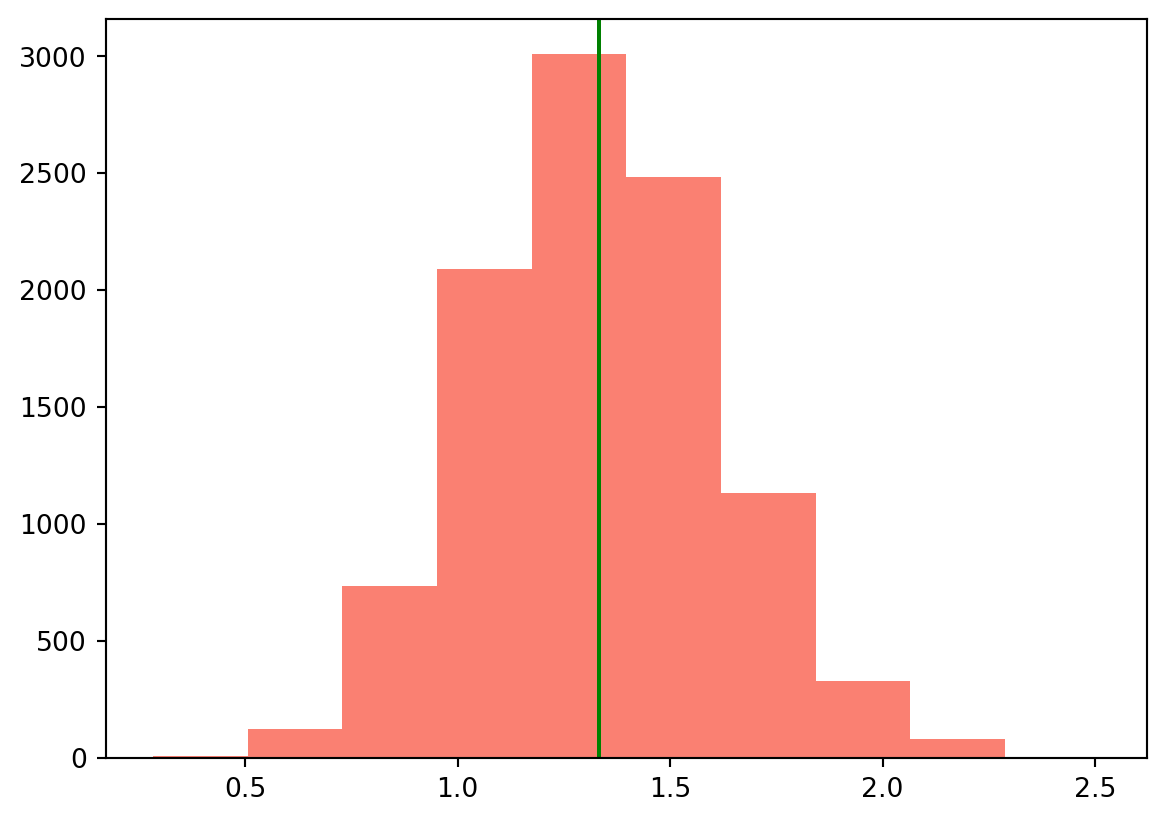
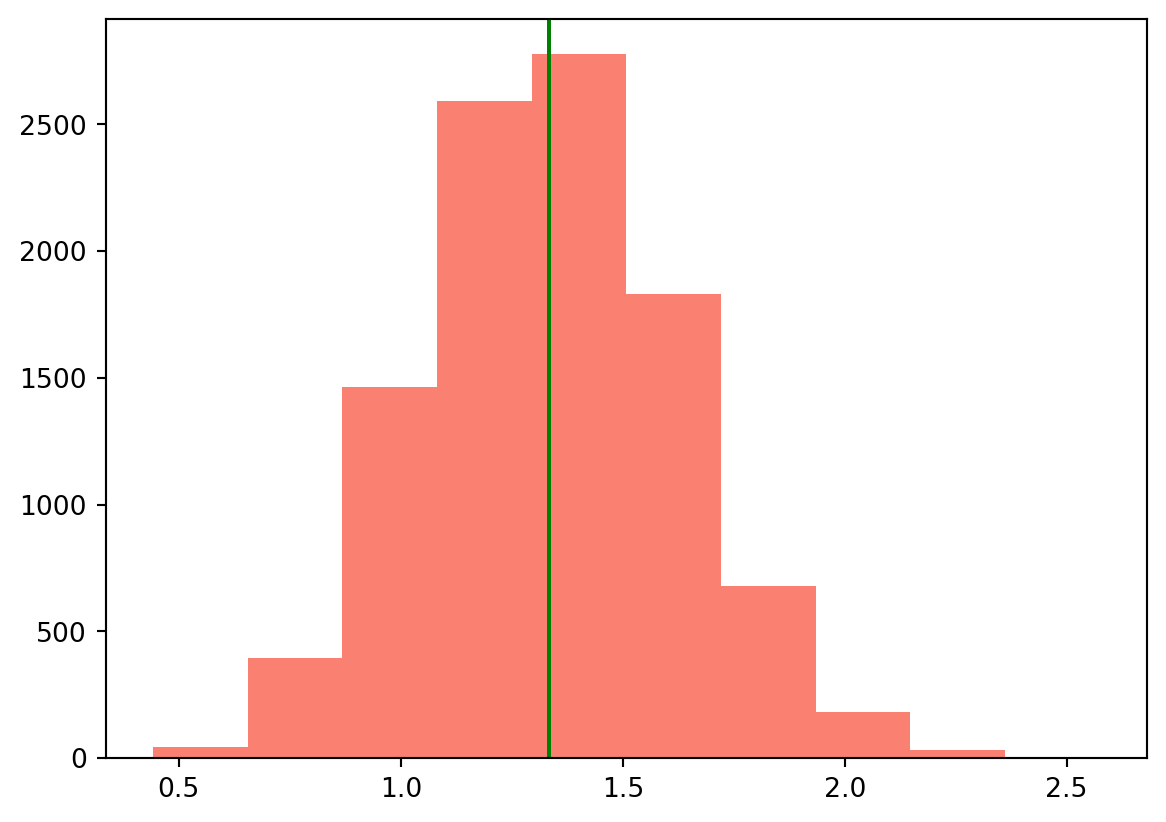
.,

diff --git a/docs/hw4.html b/docs/hw4.html
@@ -177,7 +177,7 @@ pre > code.sourceCode > span > a:first-child::before { text-decoration: underlin
 <p>표본 분산 계산 시 왜 n-1로 나누는지 알아보도록 하겠습니다.</p>
 <p>균일분포 (3, 7)에서 20개의 표본을 뽑아서 분산을 2가지 방법으로 추정해보세요.</p>
 <p>n-1로 나눈 것을 s_2, n으로 나눈 것을 k_2로 정의하고, s_2의 분포와 k_2의 분포를 그려주세요! (10000개 사용) 각 분포 그래프에 모분산의 위치에 녹색 막대를 그려주세요. 결과를 살펴보고, 왜 n-1로 나눈 것을 분산을 추정하는 지표로 사용하는 것이 타당한지 써주세요!</p>
-<div id="7dccb822" class="cell" data-execution_count="1">
+<div id="04a15282" class="cell" data-execution_count="1">
 <div class="sourceCode cell-code" id="cb1"><pre class="sourceCode python code-with-copy"><code class="sourceCode python"><span id="cb1-1"><a href="#cb1-1" aria-hidden="true" tabindex="-1"></a><span class="im">import</span> numpy <span class="im">as</span> np</span>
 <span id="cb1-2"><a href="#cb1-2" aria-hidden="true" tabindex="-1"></a><span class="im">from</span> scipy.stats <span class="im">import</span> uniform</span>
 <span id="cb1-3"><a href="#cb1-3" aria-hidden="true" tabindex="-1"></a><span class="im">import</span> seaborn <span class="im">as</span> sns</span>
@@ -213,7 +213,7 @@ pre > code.sourceCode > span > a:first-child::before { text-decoration: underlin
 <pre><code>&lt;Figure size 672x480 with 0 Axes&gt;</code></pre>
 </div>
 </div>
-<div id="20eed0df" class="cell" data-execution_count="2">
+<div id="2f350654" class="cell" data-execution_count="2">
 <div class="sourceCode cell-code" id="cb3"><pre class="sourceCode python code-with-copy"><code class="sourceCode python"><span id="cb3-1"><a href="#cb3-1" aria-hidden="true" tabindex="-1"></a>mo_var <span class="op">=</span> uniform.var(loc<span class="op">=</span><span class="dv">3</span>,scale<span class="op">=</span><span class="dv">4</span>)</span>
 <span id="cb3-2"><a href="#cb3-2" aria-hidden="true" tabindex="-1"></a>plt.hist(k_2_list, color <span class="op">=</span> <span class="st">"salmon"</span>)</span>
 <span id="cb3-3"><a href="#cb3-3" aria-hidden="true" tabindex="-1"></a>plt.axvline(x_var, color<span class="op">=</span><span class="st">"red"</span>)</span>
@@ -222,7 +222,7 @@ pre > code.sourceCode > span > a:first-child::before { text-decoration: underlin
 <div class="cell-output cell-output-display">
 <div>
 <figure class="figure">
-<p><img src="hw4_files/figure-html/cell-3-output-1.png" width="583" height="411" class="figure-img"></p>
+<p><img src="hw4_files/figure-html/cell-3-output-1.png" width="587" height="411" class="figure-img"></p>
 </figure>
 </div>
 </div>
@@ -230,22 +230,22 @@ pre > code.sourceCode > span > a:first-child::before { text-decoration: underlin
 <pre><code>&lt;Figure size 672x480 with 0 Axes&gt;</code></pre>
 </div>
 </div>
-<div id="47f2b3f3" class="cell" data-execution_count="3">
+<div id="9b01ce0c" class="cell" data-execution_count="3">
 <div class="sourceCode cell-code" id="cb5"><pre class="sourceCode python code-with-copy"><code class="sourceCode python"><span id="cb5-1"><a href="#cb5-1" aria-hidden="true" tabindex="-1"></a>np.mean(s_2_list) </span></code><button title="Copy to Clipboard" class="code-copy-button"><i class="bi"></i></button></pre></div>
 <div class="cell-output cell-output-display" data-execution_count="3">
-<pre><code>np.float64(1.332848974562812)</code></pre>
+<pre><code>np.float64(1.3369070381415145)</code></pre>
 </div>
 </div>
-<div id="a592a7b5" class="cell" data-execution_count="4">
+<div id="dae502e3" class="cell" data-execution_count="4">
 <div class="sourceCode cell-code" id="cb7"><pre class="sourceCode python code-with-copy"><code class="sourceCode python"><span id="cb7-1"><a href="#cb7-1" aria-hidden="true" tabindex="-1"></a>np.mean(k_2_list)</span></code><button title="Copy to Clipboard" class="code-copy-button"><i class="bi"></i></button></pre></div>
 <div class="cell-output cell-output-display" data-execution_count="4">
-<pre><code>np.float64(1.2662065258346715)</code></pre>
+<pre><code>np.float64(1.2700616862344387)</code></pre>
 </div>
 </div>
 <ol start="3" type="1">
 <li>그래프 상으론 차이를 잘 모르겠지만 두 결과 값과</li>
 </ol>
-<div id="38cabe6d" class="cell" data-execution_count="5">
+<div id="f20eac0e" class="cell" data-execution_count="5">
 <div class="sourceCode cell-code" id="cb9"><pre class="sourceCode python code-with-copy"><code class="sourceCode python"><span id="cb9-1"><a href="#cb9-1" aria-hidden="true" tabindex="-1"></a>x_var <span class="op">=</span> uniform.var(<span class="dv">3</span>,<span class="dv">4</span>)</span>
 <span id="cb9-2"><a href="#cb9-2" aria-hidden="true" tabindex="-1"></a>x_var</span></code><button title="Copy to Clipboard" class="code-copy-button"><i class="bi"></i></button></pre></div>
 <div class="cell-output cell-output-display" data-execution_count="5">
